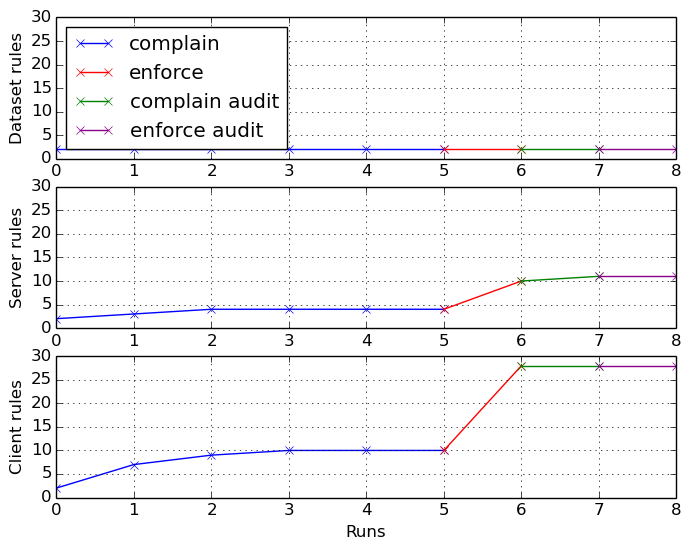
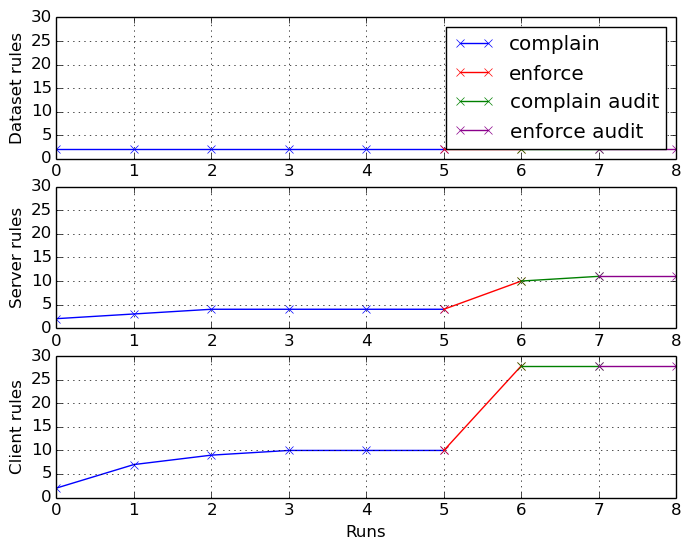
Plotting

Changed region(s): [[0.6391, 0.0309, 0.9739, 0.2782], [0.0913, 0.0309, 0.4261, 0.2782]]

diff --git a/Parser/metrics/plot_rules_total.py b/Parser/metrics/plot_rules_total.py
@@ -122,7 +122,7 @@ ax3.plot(enf_rules, part_2c, label="enforce", color="red", marker='x')
 ax3.plot(compl_audit, part_3c, label="complain audit", color="green", marker='x')
 ax3.plot(enf_audit, part_4c, label="enforce audit", color="darkmagenta", marker='x')
 
-ax1.legend(loc="best")
+ax1.legend(loc=1)
 ax1.grid()
 ax2.grid()
 ax3.grid()

diff --git a/media-streaming_test2/Parser/metrics/plot_rules_total.py b/media-streaming_test2/Parser/metrics/plot_rules_total.py
@@ -122,7 +122,7 @@ ax3.plot(enf_rules, part_2c, label="enforce", color="red", marker='x')
 ax3.plot(compl_audit, part_3c, label="complain audit", color="green", marker='x')
 ax3.plot(enf_audit, part_4c, label="enforce audit", color="darkmagenta", marker='x')
 
-ax1.legend(loc="best")
+ax1.legend(loc=1)
 ax1.grid()
 ax2.grid()
 ax3.grid()
